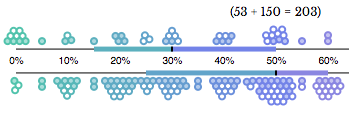
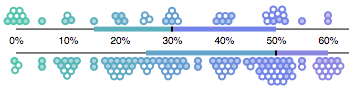
Edit legend to remove header

diff --git a/src/App.js b/src/App.js
@@ -212,16 +212,13 @@ class App extends Component {
 					<h2 style={{textAlign: 'center'}}>How to read visualization<br />↓</h2>
 					<div style={{position: 'relative'}}>
 						<img src={legendImage} alt='How to read graph' />
-						<sup style={{position: 'absolute', width: '100%', left: 360, top: 4}}>
-							← (no frustrations + with frustrations = total)
-						</sup>
-						<sup style={{position: 'absolute', width: '100%', left: 360, top: 36}}>
+						<sup style={{position: 'absolute', width: '100%', left: 360, top: 16}}>
 							← responded with <em>no</em> frustrations
 						</sup>
-						<sup style={{position: 'absolute', width: '100%', left: 360, top: 53}}>
+						<sup style={{position: 'absolute', width: '100%', left: 360, top: 33}}>
 							← % of day respondent spends on data visualization
 						</sup>
-						<sup style={{position: 'absolute', width: '100%', left: 360, top: 70}}>
+						<sup style={{position: 'absolute', width: '100%', left: 360, top: 50}}>
 							← responded <em>with</em> frustrations
 						</sup>
 					</div>
